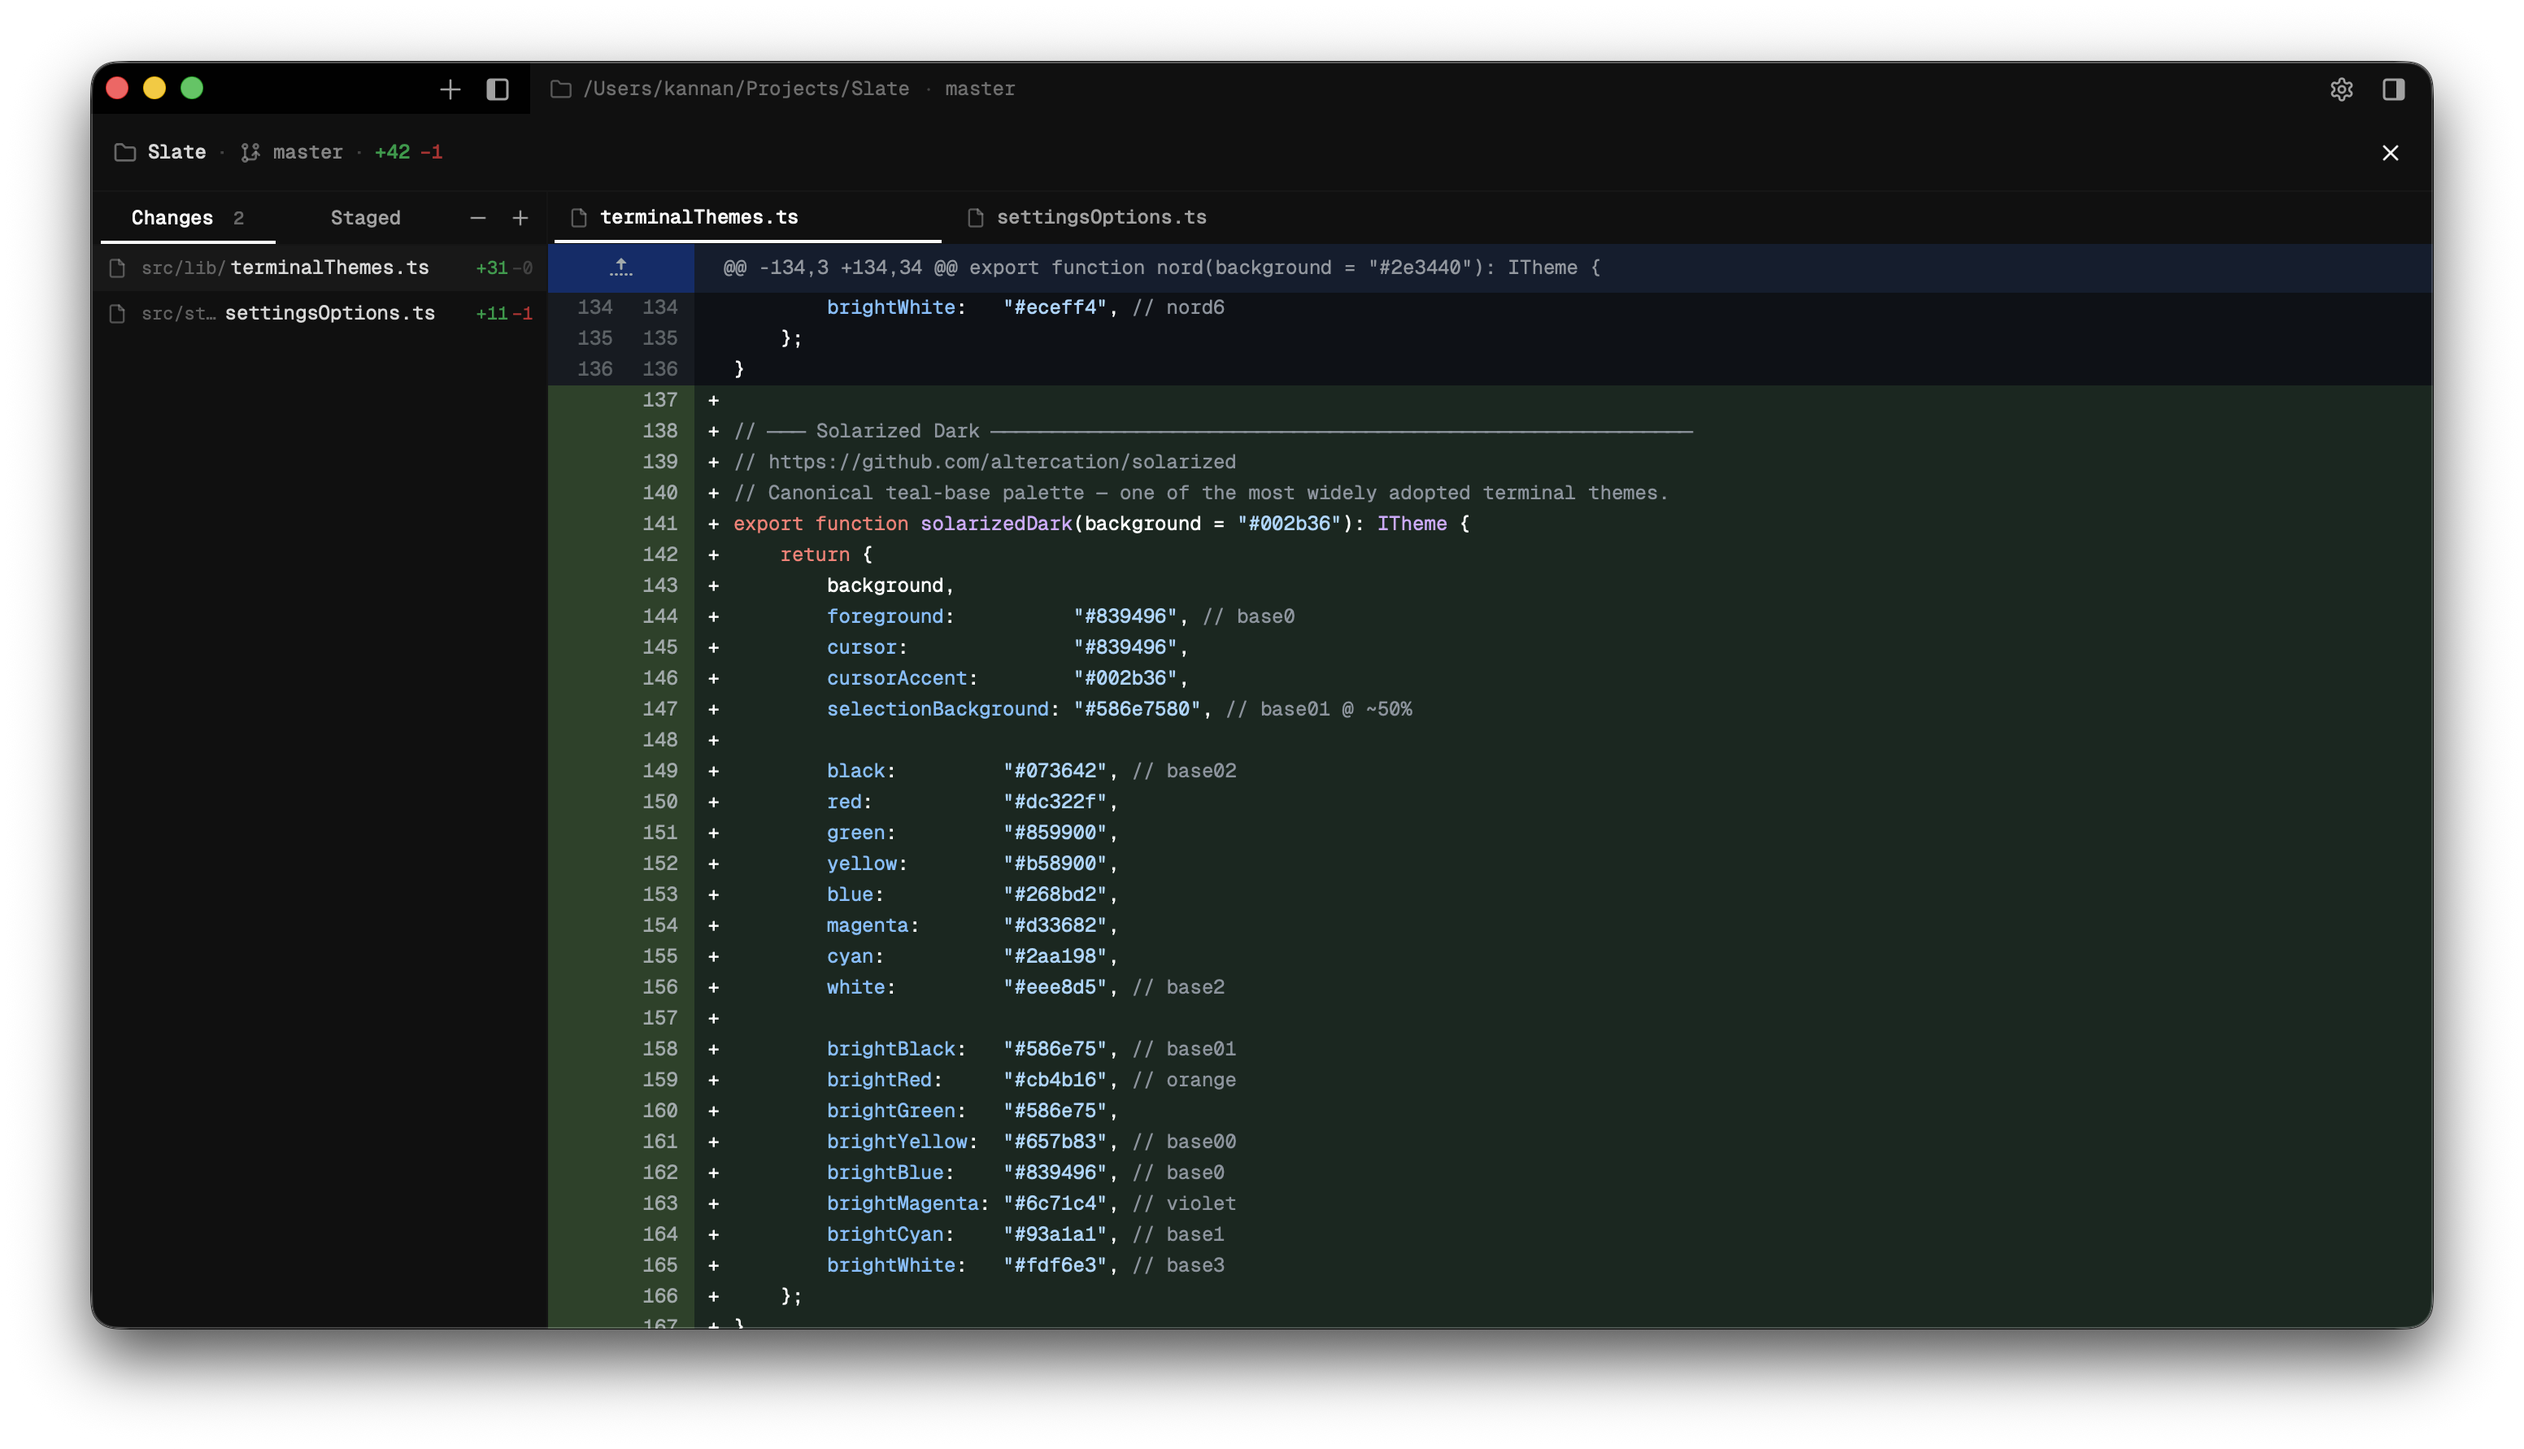
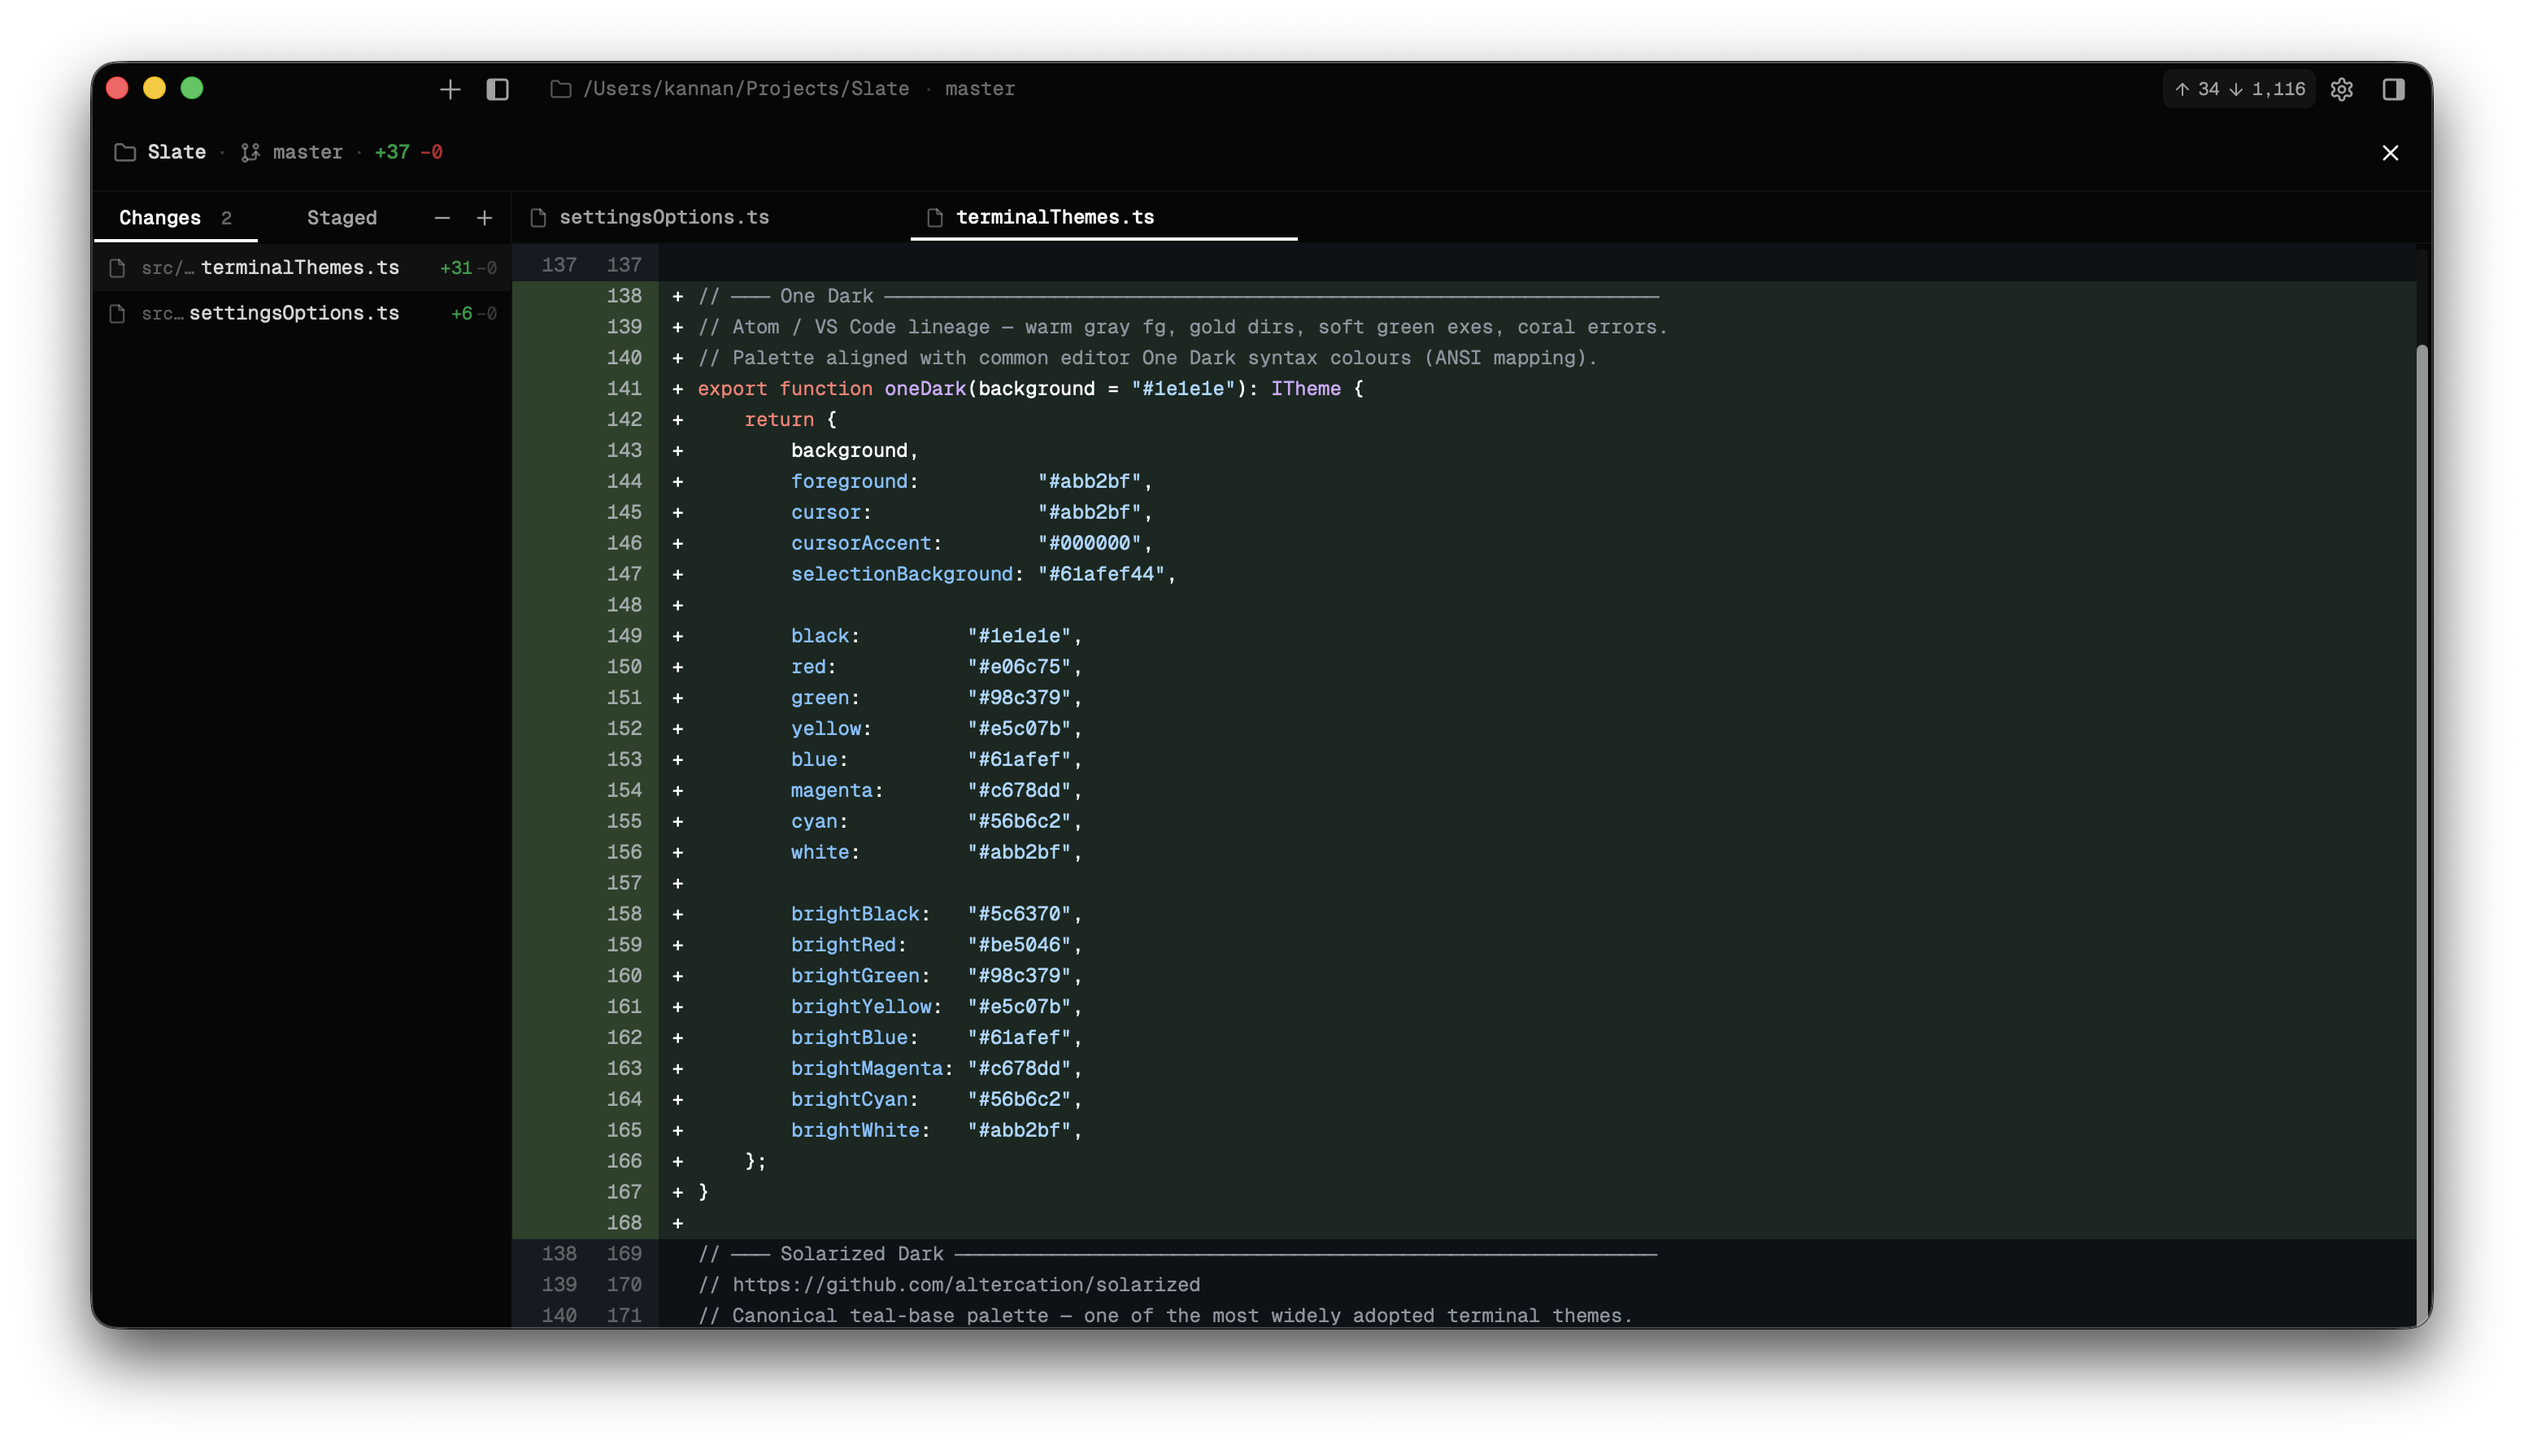
update readme, screenshots, new one dark theme

diff --git a/src/lib/terminalThemes.ts b/src/lib/terminalThemes.ts
@@ -135,6 +135,37 @@ export function nord(background = "#2e3440"): ITheme {
 	};
 }
 
+// ─── One Dark ────────────────────────────────────────────────────────────────
+// Atom / VS Code lineage — warm gray fg, gold dirs, soft green exes, coral errors.
+// Palette aligned with common editor One Dark syntax colours (ANSI mapping).
+export function oneDark(background = "#1e1e1e"): ITheme {
+	return {
+		background,
+		foreground:          "#abb2bf",
+		cursor:              "#abb2bf",
+		cursorAccent:        "#000000",
+		selectionBackground: "#61afef44",
+
+		black:         "#1e1e1e",
+		red:           "#e06c75",
+		green:         "#98c379",
+		yellow:        "#e5c07b",
+		blue:          "#61afef",
+		magenta:       "#c678dd",
+		cyan:          "#56b6c2",
+		white:         "#abb2bf",
+
+		brightBlack:   "#5c6370",
+		brightRed:     "#be5046",
+		brightGreen:   "#98c379",
+		brightYellow:  "#e5c07b",
+		brightBlue:    "#61afef",
+		brightMagenta: "#c678dd",
+		brightCyan:    "#56b6c2",
+		brightWhite:   "#abb2bf",
+	};
+}
+
 // ─── Solarized Dark ──────────────────────────────────────────────────────────
 // https://github.com/altercation/solarized
 // Canonical teal-base palette — one of the most widely adopted terminal themes.

diff --git a/src/store/settingsOptions.ts b/src/store/settingsOptions.ts
@@ -10,6 +10,7 @@ export type TerminalThemeId =
 	| "dracula"
 	| "tokyoNight"
 	| "nord"
+	| "oneDark"
 	| "solarizedDark";
 
 export interface TerminalThemeOption {
@@ -38,6 +39,11 @@ export const TERMINAL_THEME_OPTIONS: TerminalThemeOption[] = [
 		id: "nord",
 		label: "Nord",
 		preview: { bg: "#2e3440", fg: "#d8dee9", accent: "#88c0d0" }, // arctic blue
+	},
+	{
+		id: "oneDark",
+		label: "One Dark",
+		preview: { bg: "#000000", fg: "#abb2bf", accent: "#e5c07b" }, // warm gray + gold
 	},
 	{
 		id: "solarizedDark",

diff --git a/README.md b/README.md
@@ -29,13 +29,8 @@ A macOS terminal that feels fast and familiar by default — then **transforms**
 
 <div align="center">
 
-<img src="screenshots/main-terminal.png" alt="Blackslate — terminal workspace" width="100%" />
-<p align="center"><em>Workspaces in the sidebar, each with its own horizontal <strong>tabs</strong> — multiple terminals per workspace.</em></p>
-
-<br />
-
 <img src="screenshots/main-claude.png" alt="Blackslate — Claude Code active" width="100%" />
-<p align="center"><em>Claude Code running: <strong>input / output tokens</strong> in the title bar, live indicators on tabs and workspaces.</em></p>
+<p align="center"><em><strong>Workspaces</strong> and horizontal <strong>tabs</strong> in the sidebar, with Claude Code running — <strong>input / output tokens</strong> in the title bar and live indicators on tabs and rows.</em></p>
 
 <br />
 
@@ -55,7 +50,7 @@ A macOS terminal that feels fast and familiar by default — then **transforms**
 <br />
 
 <img src="screenshots/themeconfig.png" alt="Blackslate — theme configuration" width="100%" />
-<p align="center"><em>Five terminal themes, ten sidebar palettes — switch live via <code>⌘,</code></em></p>
+<p align="center"><em>Six terminal themes, ten sidebar palettes — switch live via <code>⌘,</code></em></p>
 
 </div>
 
@@ -136,7 +131,7 @@ The philosophy: **augment at the UI/UX layer, not at the protocol layer.** PTY, 
 
 **Personalisation**
 
-- **5 terminal themes** — Gruvbox Dark, Tokyo Night, Dracula, Nord, Solarized Dark
+- **6 terminal themes** — Gruvbox Dark, Tokyo Night, Dracula, Nord, One Dark, Solarized Dark
 - **10 sidebar palettes** — Void, Carbon, Ember, Aurora, Deep Sea, Toxic, Dusk, Crimson, Rose, Slate
 - Settings via `⌘,` — more coming via `blackslate.config`
 
